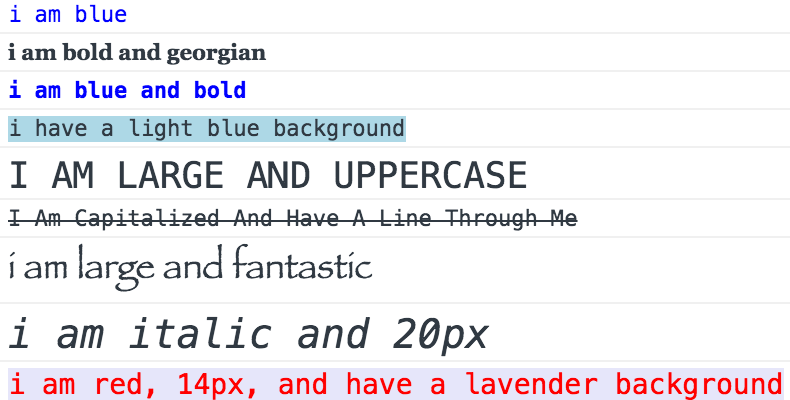
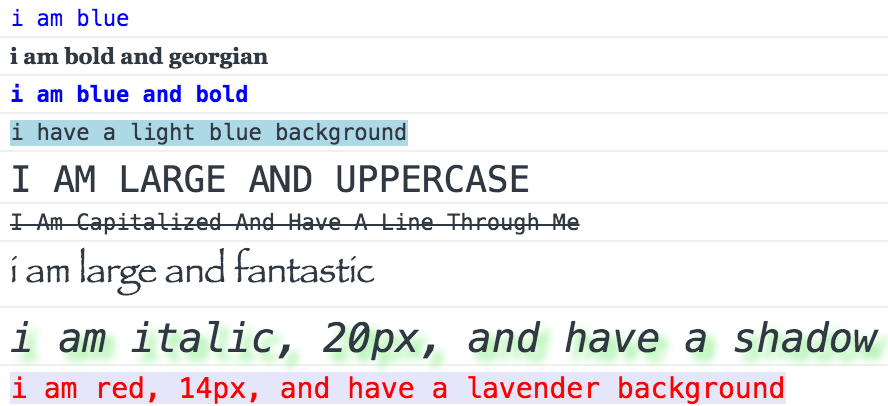
docs: update example with text-shadow

diff --git a/example/src/index.js b/example/src/index.js
@@ -14,7 +14,7 @@ pwc().capitalize().linethrough().log('i am capitalized and have a line through m
 
 pwc().fantasy().large().log('i am large and fantastic')
 
-pwc().italic().size(20).log('i am italic and 20px')
+pwc().italic().size(20).shadow('4px 4px 5px lightgreen').log('i am italic, 20px, and have a shadow')
 
 pwc({
   color: 'red',

diff --git a/README.md b/README.md
@@ -50,6 +50,7 @@ Besides supporting raw values, the following names can be used for chaining. If 
 1. style: `normal`, `italic`, `oblique`
 1. transform: `capitalize`, `uppercase`, `lowercase`
 1. bg
+1. shadow
 
 [![NPM](https://nodei.co/npm/pretty-web-console.png?downloads=true)](https://www.npmjs.com/package/pretty-web-console)
 
